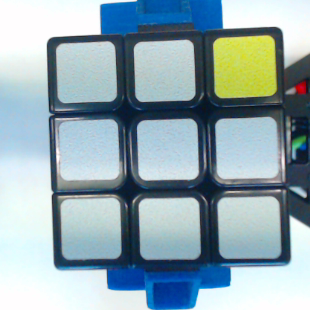
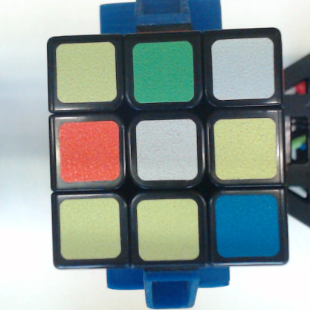
L channel taken out of nearest neighbor. tiltx,y not working

diff --git a/scripts/clean.py b/scripts/clean.py
@@ -459,7 +459,7 @@ def get_tilt(cY, cX, w_val, h_val):
     return tilt_y, tilt_x, step_y, step_x
 
 
-def min_max_coordinates(i, copy_img, cX_values, cY_values, width_values, height_values, rect_sticker, all_cont2):
+def reconstruct(i, copy_img, cX_values, cY_values, width_values, height_values, rect_sticker, all_cont2, angle):
     img_contours_all = copy_img.copy()
     img_contours_sample = copy_img.copy()
     # calculate mean width and height values
@@ -481,8 +481,9 @@ def min_max_coordinates(i, copy_img, cX_values, cY_values, width_values, height_
     stickers_all = []
     stickers_sample = []
 
-    tilt_y, tilt_x, step_y, step_x = get_tilt(cY_values, cX_values, mean_width, mean_height)
-
+    # tilt_y, tilt_x, _, _ = get_tilt(cY_values, cX_values, mean_width, mean_height)
+    tilt_x = np.sin(angle* 0.75) * step_x
+    tilt_y = np.sin(angle* 0.75) * step_y
     for y in range(0, 3):
         for x in range(0, 3):
             if x == 0 and y == 0:
@@ -618,7 +619,8 @@ def find_nearest(centers, value):
     centers = np.asarray(centers)
     dif = np.abs(np.subtract(centers, value))
     dev = np.sqrt(
-        np.power(dif[:, 0], 2) + np.power(dif[:, 1], 2) + np.power(dif[:, 2], 2))  # deviation between centre colours
+        #np.power(dif[:, 0], 2) + np.power(dif[:, 1], 2) + np.power(dif[:, 2], 2))  # deviation between all centre colors
+        np.power(dif[:, 1], 2) + np.power(dif[:, 2], 2))  # deviation between AB centre colors
     idx = dev.argmin()  # minimum
     return idx, centers[idx]
 
@@ -732,8 +734,8 @@ def scan_cube():
         # draw roi cube
         # roi_cube(i, img_in, image_stickers_binary, cX, cY, width_values, height_values)
         # if not all stickers could be recognised --> find min and max x and y- coordinates of the stickers
-        stickers, img_contours_all, img_contours_sample = min_max_coordinates(i, img_in2, cX, cY, width_values, height_values, rect_sticker, all_cont2)
-        final_imgs.append((img_contours_all, img_contours_sample))
+        stickers, img_cnts_all, img_cnts_sample = reconstruct(i, img_in2, cX, cY, width_values, height_values, rect_sticker, all_cont2, angle_sticker)
+        final_imgs.append((img_cnts_all, img_cnts_sample))
         cv2.destroyAllWindows()
         # taking colour samples from stickers
         data_arr = color_samples(i, img_in2, stickers, data_arr)

diff --git a/scripts/solver_server.py b/scripts/solver_server.py
@@ -31,7 +31,7 @@ def handle_solve(req):
     if retval:
         print "\ncube-state scanned: {}".format(cube_def_str)
         print "\nfinding solution.."
-        sol_str = solve(cubestring=cube_def_str, max_length=5, timeout=15)  # twophase algorithm
+        sol_str = solve(cubestring=cube_def_str, max_length=5, timeout=5)  # twophase algorithm
         if sol_str == 'UUUUUUUUURRRRRRRRRFFFFFFFFFDDDDDDDDDLLLLLLLLLBBBBBBBBB':
             return SolverResponse(0, '')
         solution, movecount = check_solution(sol_str)  # check for errors
